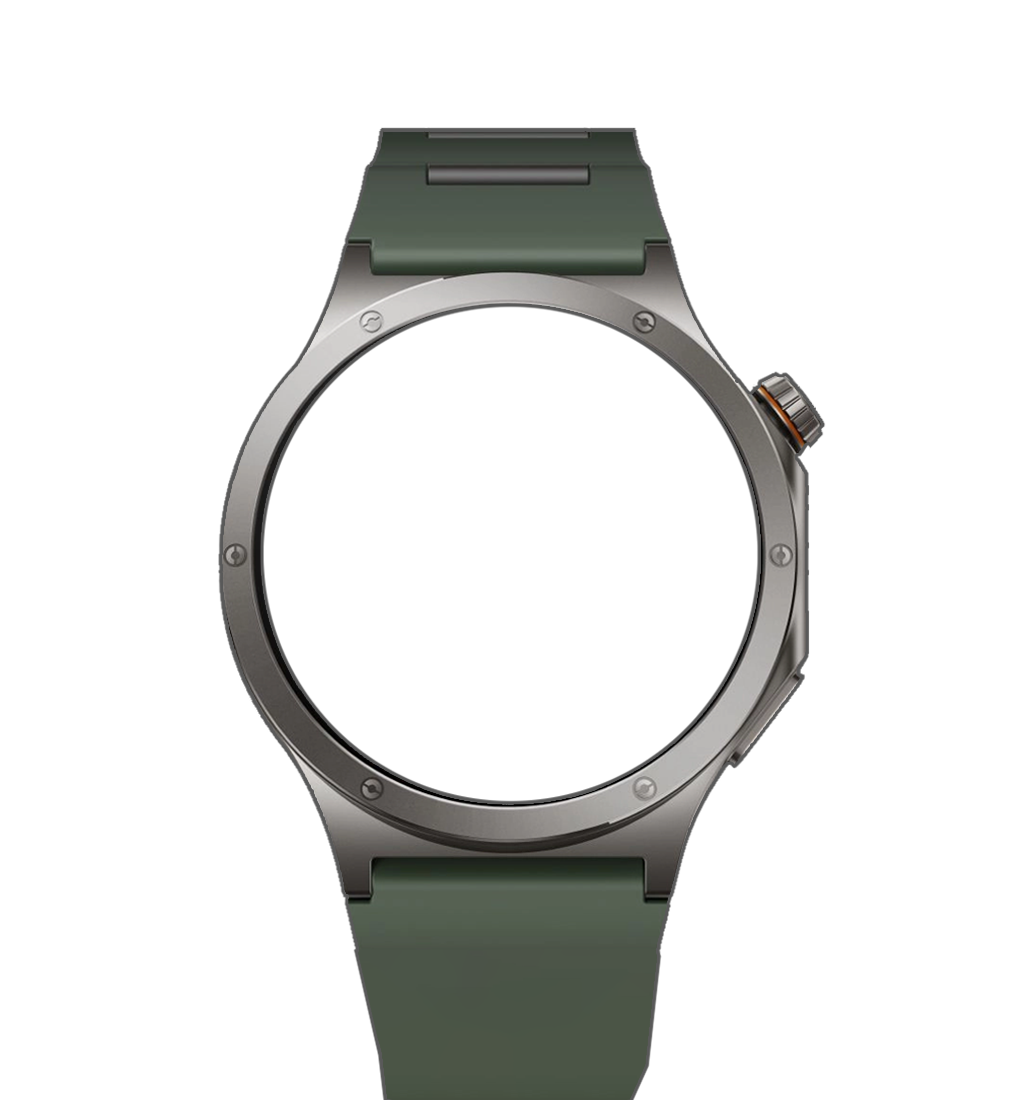
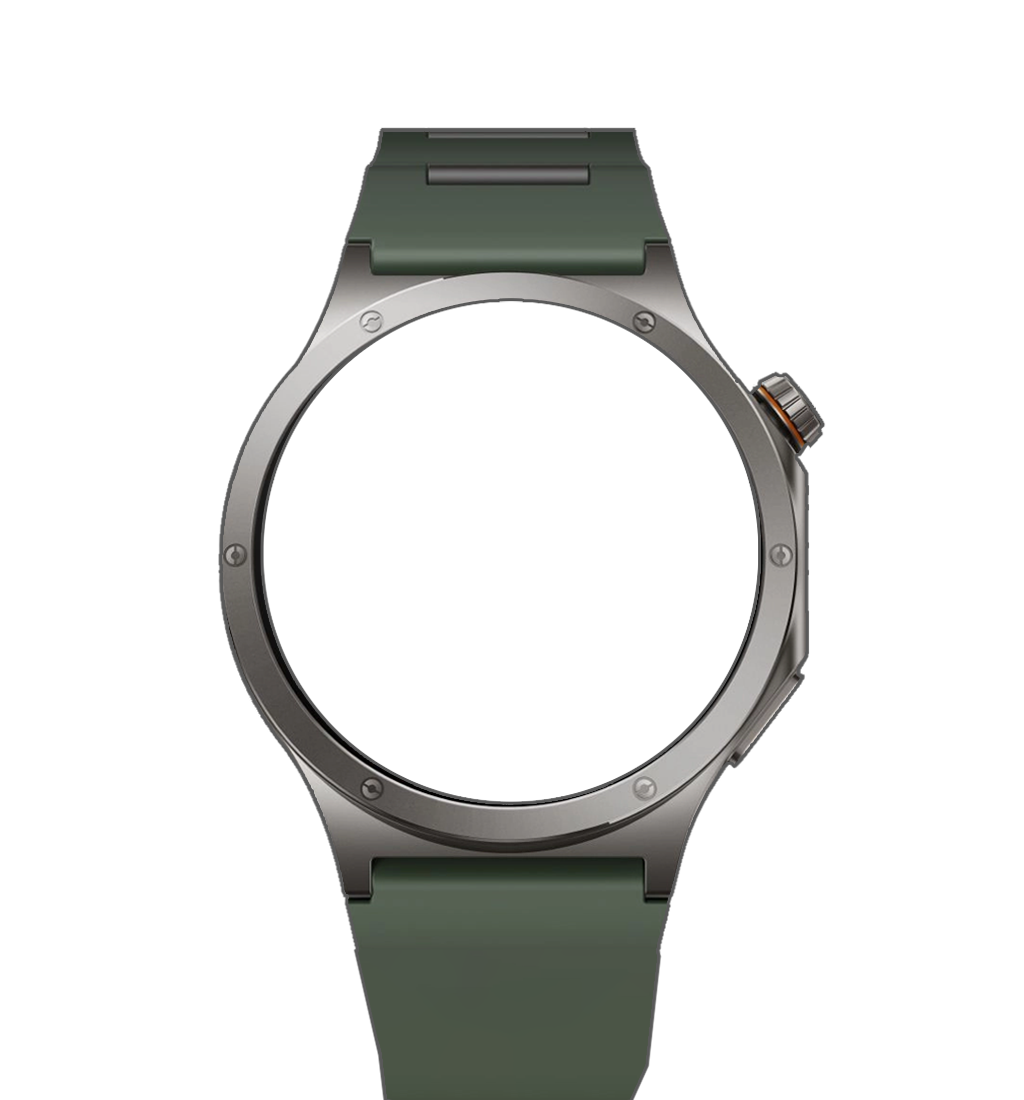
Revert OnePlus face size to 48.5% and update frame with onePlus4_6.png

diff --git a/index.html b/index.html
@@ -4086,7 +4086,7 @@
                 id: 'oneplus',
                 name: 'OnePlus Watch 2',
                 frame: 'images/watch_frame_oneplus.png',
-                faceSize: '46.0%',
+                faceSize: '48.5%',
                 bgSize: '51.5%',
                 scale: 1.03
             }
